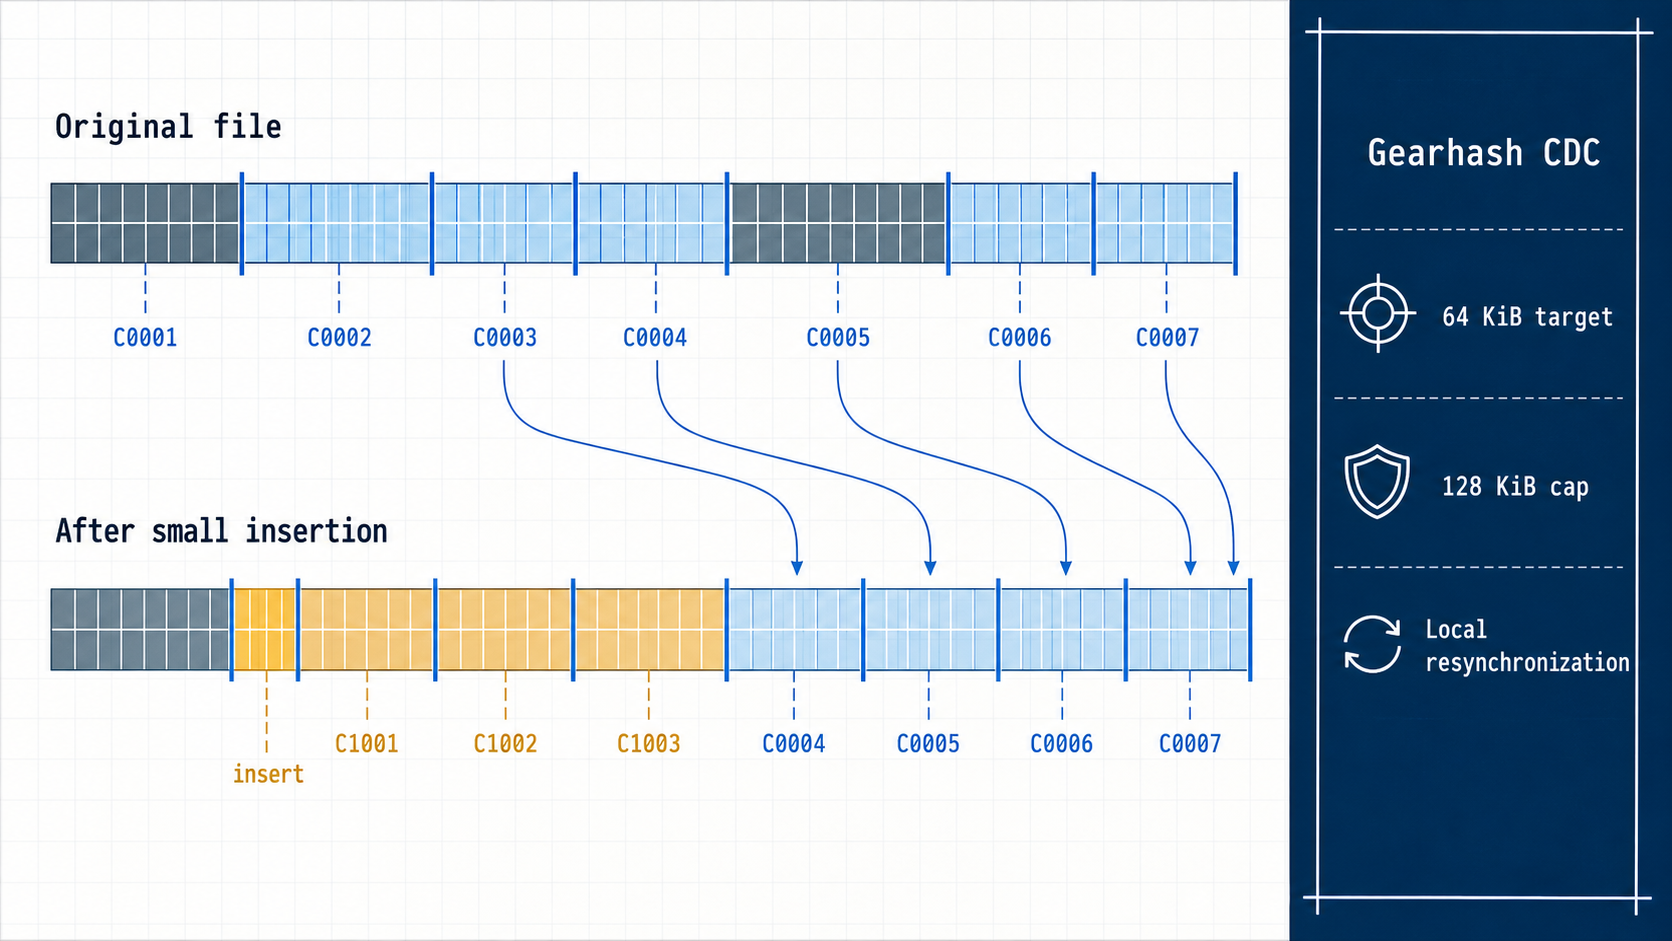
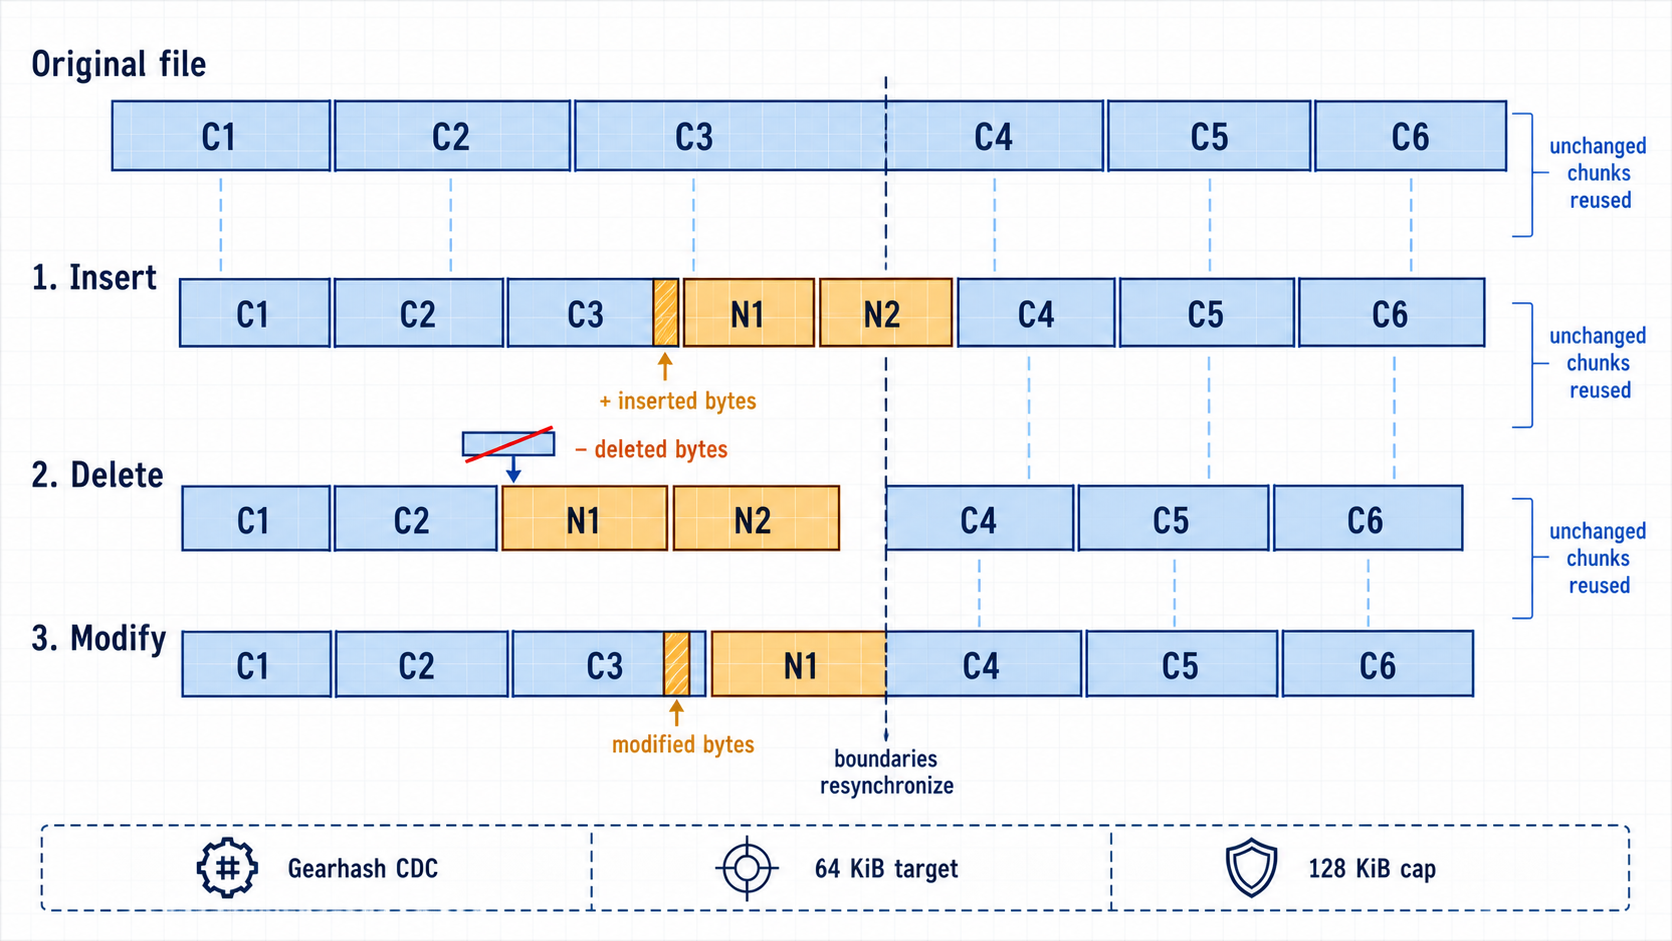
docs: clarify chunking and xorb tradeoff visuals

diff --git a/launch/imgs/prompts/07-gearhash-content-defined-chunking.md b/launch/imgs/prompts/07-gearhash-content-defined-chunking.md
@@ -9,20 +9,31 @@ output: 07-gearhash-content-defined-chunking.png
 
 # Gearhash Content-Defined Chunking
 
-Layout: before-and-after byte ribbon comparison. A small insertion appears near the start of the lower ribbon. Chunk boundaries shift locally, then visibly resynchronize so later chunks match the upper ribbon.
+Use case: scientific-educational infographic for a technical open-source launch post.
+
+Primary request: redraw this as a crystal-clear explanation of how content-defined chunking reacts to three different local edits. The viewer must immediately see exactly what was inserted, deleted, or modified; which nearby chunks receive new identities; and where unchanged chunk identities resume.
+
+Layout: one full-width `Original file` ribbon across the top. Beneath it, three equal comparison rows labeled `1. Insert`, `2. Delete`, and `3. Modify`. Every row begins from the same original content. Align reused chunks vertically wherever possible so identity preservation is visually obvious.
 
 ZONES:
-- Top ribbon heading: `Original file`.
-- Bottom ribbon heading: `After small insertion`.
-- Both ribbons divided into chunks with boundary ticks and matching chunk IDs after resynchronization.
-- Small inserted segment labeled `insert`.
-- Curved alignment guides show matching later chunks.
-- Right metric panel: `Gearhash CDC`, `64 KiB target`, `128 KiB cap`, `Local resynchronization`.
+- Top original ribbon: six large, plainly separated chunks labeled `C1`, `C2`, `C3`, `C4`, `C5`, `C6`. Use the same distinct blue fill for all original chunks.
+- Insert row: show a narrow amber byte segment visibly added between original content, labeled `+ inserted bytes`. Nearby output chunks become amber `N1` and `N2`. Farther right, unchanged blue chunks `C4`, `C5`, and `C6` reappear with the same labels as the original.
+- Delete row: show a short original byte segment above the ribbon with a strike-through and downward removal mark, labeled `− deleted bytes`. The edited ribbon must be visibly shorter. Nearby output chunks become amber `N1` and `N2`. Farther right, unchanged blue chunks `C4`, `C5`, and `C6` reappear.
+- Modify row: show one small amber patch inside the original content, labeled `modified bytes`. The total ribbon length stays the same. Only the local output area becomes amber `N1`; blue chunks `C4`, `C5`, and `C6` remain unchanged.
+- A single vertical dashed line at the first reused `C4` in all three rows, labeled `boundaries resynchronize`.
+- Small footer facts: `Gearhash CDC`, `64 KiB target`, `128 KiB cap`.
 
-LABELS: Render only these labels, spelled exactly: `Original file`, `After small insertion`, `insert`, `Gearhash CDC`, `64 KiB target`, `128 KiB cap`, `Local resynchronization`.
+FLOW:
+- Thin vertical identity guides connect original `C4`, `C5`, and `C6` to the identically labeled blue chunks in every edit row.
+- Amber is reserved exclusively for inserted, deleted, modified, and locally rechunked bytes.
+- Blue chunks with the same labels mean byte-identical reusable chunks. Never color changed chunks blue.
 
-COLORS: off-white background, pale gray grid, deep slate byte ribbons, engineering-blue stable chunk boundaries, light-blue matching chunks, amber inserted bytes and locally changed chunks, navy metric panel. Color values are rendering guidance only; never display color names or hex values.
+LABELS: Render only these labels, spelled exactly: `Original file`, `1. Insert`, `2. Delete`, `3. Modify`, `+ inserted bytes`, `− deleted bytes`, `modified bytes`, `C1`, `C2`, `C3`, `C4`, `C5`, `C6`, `N1`, `N2`, `boundaries resynchronize`, `unchanged chunks reused`, `Gearhash CDC`, `64 KiB target`, `128 KiB cap`.
 
-STYLE: technical algorithm infographic, not decorative blocks; flat 2D; precise equal-height byte ribbons; boundary ticks and matching guides must make resynchronization immediately clear. No 3D, gradients, shadows, binary filler text, people, mascots, logos, or unlisted size values.
+COLORS: off-white background, pale gray grid, deep slate outlines, engineering-blue unchanged chunks, light-blue identity guides, amber edited bytes and new local chunks, navy footer facts. Color values are rendering guidance only; never display color names or hex values.
+
+STYLE: technical algorithm blueprint; flat 2D; precise equal-height ribbons; large labels; strong alignment; generous whitespace. The insertion must add visible length, deletion must remove visible length, and modification must preserve length. No 3D, gradients, shadows, binary filler text, people, mascots, logos, extra chunk IDs, or unlisted size values.
+
+Avoid: ambiguous arrows, curved spaghetti connectors, tiny byte cells, decorative icons, or any depiction where the edit itself cannot be located instantly.
 
 ASPECT: 16:9 landscape.

diff --git a/launch/imgs/prompts/08-continuity-aware-xorb-packing.md b/launch/imgs/prompts/08-continuity-aware-xorb-packing.md
@@ -9,23 +9,32 @@ output: 08-continuity-aware-xorb-packing.png
 
 # Continuity-Aware Xorb Packing
 
-Layout: left-to-right packing pipeline. Ordered file chunks enter `XorbBuilder`; the output compares a scattered packing choice with a continuity-aware packing choice, then shows fewer contiguous range reads during hydration.
+Use case: scientific-educational comparison infographic for a technical open-source launch post.
+
+Primary request: redraw the deduplication-versus-continuity tradeoff so it can be understood in seconds. Compare the same ordered file under two storage-layout extremes. Make stored-byte reuse and hydration read cost separate, directly labeled outcomes.
+
+Layout: a full-width ordered recipe at the top labeled `Same file recipe`, containing eight equal chunks `C1` through `C8`. Below it, two large side-by-side comparison panels of equal size.
 
 ZONES:
-- Left: ordered chunk strip labeled `File chunks`.
-- Center: decision block `XorbBuilder` with three verified policy tags: `64 MiB target xorb`, `1 MiB minimum run`, `25% dedup threshold`.
-- Upper right comparison: `Scattered reuse` with many disconnected read arrows.
-- Lower right comparison: `Continuity-aware packing` with one long contiguous run.
-- Far right: `Range GET` and `LZ4` tags beside the packed xorb.
+- Left panel heading: `Extreme A — maximize reuse`.
+- Left storage: four clearly separate containers labeled `Xorb A`, `Xorb B`, `Xorb C`, `Xorb D`. The ordered recipe points to alternating small ranges across all four containers. Use multiple separated arrows and label the consequence `Fewer uploaded bytes` and `Many range GETs`.
+- Right panel heading: `Crab goal — reuse + locality`.
+- Right storage: two containers labeled `Xorb A` and `Xorb B`. The same ordered recipe maps into two long contiguous runs with only two simple arrows. Label the consequence `Some bytes may be repacked` and `Fewer range GETs`.
+- Center balance marker between panels: `Storage reuse` on the left end, `Read locality` on the right end, and `Balance` at the midpoint.
+- Bottom facts, clearly separate from the conceptual comparison: `64 MiB target xorb`, `1 MiB minimum run`, `LZ4 by default`.
 
 FLOW:
-- Ordered chunks → XorbBuilder → two comparison outcomes.
-- Highlight the continuity-aware route as the selected balance between reuse and sequential access.
+- Both panels start from the exact same ordered recipe `C1` through `C8`.
+- In the left panel, connectors deliberately preserve recipe order while touching many separate xorb ranges.
+- In the right panel, connectors preserve the same recipe order while touching two contiguous ranges.
+- Make the causal relationship explicit: more scattered reuse means more range requests; more continuity means fewer range requests.
 
-LABELS: Render only these labels, spelled exactly: `File chunks`, `XorbBuilder`, `64 MiB target xorb`, `1 MiB minimum run`, `25% dedup threshold`, `Scattered reuse`, `Continuity-aware packing`, `Range GET`, `LZ4`, `Dedup + locality`.
+LABELS: Render only these labels, spelled exactly: `Same file recipe`, `C1`, `C2`, `C3`, `C4`, `C5`, `C6`, `C7`, `C8`, `Extreme A — maximize reuse`, `Xorb A`, `Xorb B`, `Xorb C`, `Xorb D`, `Fewer uploaded bytes`, `Many range GETs`, `Crab goal — reuse + locality`, `Some bytes may be repacked`, `Fewer range GETs`, `Storage reuse`, `Balance`, `Read locality`, `64 MiB target xorb`, `1 MiB minimum run`, `LZ4 by default`.
 
-COLORS: off-white background, pale gray grid, deep slate chunks, engineering-blue selected packing route, navy xorb container, light-blue contiguous run, amber scattered-read penalties. Color values are rendering guidance only; never display color names or hex values.
+COLORS: off-white background, pale gray grid, deep slate recipe chunks, engineering-blue continuity-aware mapping, navy xorb containers, light-blue contiguous ranges, amber scattered connectors and range-request penalty. Color values are rendering guidance only; never display color names or hex values.
 
-STYLE: rigorous storage-engine blueprint; flat 2D; aligned chunk cells; exact policy tags; make byte continuity and range count visually measurable. No 3D, gradients, shadows, people, mascots, vendor logos, or extra numbers.
+STYLE: rigorous storage-engine comparison blueprint; flat 2D; straight connectors; large readable labels; identical recipe in both panels; unmistakable contrast between many scattered reads and two contiguous reads. No 3D, gradients, shadows, people, mascots, vendor logos, 25% threshold label, or extra numbers.
+
+Avoid: a generic XorbBuilder black box, unlabeled arrows, duplicated facts beside both panels, or any layout that mixes the dedup decision with compression.
 
 ASPECT: 16:9 landscape.

diff --git a/launch/crab-x-launch-series.md b/launch/crab-x-launch-series.md
@@ -164,15 +164,15 @@ Technical overview: https://crab.build/blog/git-for-large-files-at-any-scale
 
 **Image 1 — Content-defined boundaries**
 
-![Gearhash content-defined chunking showing a small insertion, locally changed chunks, later boundary resynchronization, a 64 KiB target, and a 128 KiB cap.](imgs/07-gearhash-content-defined-chunking.png)
+![Gearhash content-defined chunking comparing insertion, deletion, and modification against one original file, with local new chunks followed by unchanged reused chunks.](imgs/07-gearhash-content-defined-chunking.png)
 
-Alt text: Two nearly identical segmented data ribbons show a tiny orange insertion disturbing one local area while later content-defined chunk boundaries resynchronize and remain matched.
+Alt text: One original segmented file is compared with three local edits. Inserted, deleted, and modified bytes are highlighted in amber; only nearby chunks receive new identities, while later blue chunks C4 through C6 retain their original identities after boundaries resynchronize.
 
 **Image 2 — Deduplication versus continuity**
 
-![XorbBuilder comparison of scattered reuse and continuity-aware packing using a 64 MiB target xorb, 1 MiB minimum run, and 25 percent dedup threshold.](imgs/08-continuity-aware-xorb-packing.png)
+![Comparison of maximal scattered chunk reuse with Crab's balance of reuse and xorb locality, separating uploaded-byte savings from hydration range-request cost.](imgs/08-continuity-aware-xorb-packing.png)
 
-Alt text: A split technical diagram contrasts a file scattered across many small containers and tangled read paths with the same chunks grouped into three coherent packed objects and a short reconstruction path.
+Alt text: The same ordered eight-chunk file is mapped two ways. Maximizing reuse scatters its terms across four xorbs and requires many range requests; continuity-aware packing uses two long xorb ranges, may repack some bytes, and requires fewer range requests.
 
 ## Post 5 — How a serverless push stays consistent
 

diff --git a/launch/imgs/outline.md b/launch/imgs/outline.md
@@ -42,10 +42,10 @@
 
 7. `07-gearhash-content-defined-chunking.png`
    - Position: after the content-defined chunking rationale.
-   - Purpose: show local boundary resynchronization after a small insertion and the verified chunk-size policy.
+   - Purpose: compare insertion, deletion, and modification against one original file, showing the local rechunking window and the exact point where unchanged chunk identities resume.
 8. `08-continuity-aware-xorb-packing.png`
    - Position: after the xorb packing rationale.
-   - Purpose: explain how Crab balances deduplication with efficient range reads using verified thresholds.
+   - Purpose: contrast maximal scattered reuse with Crab's balance of reuse and contiguous reads, while keeping verified xorb/run/compression facts separate from the conceptual tradeoff.
 
 ## Post 5 — Safe Push Publication
 
